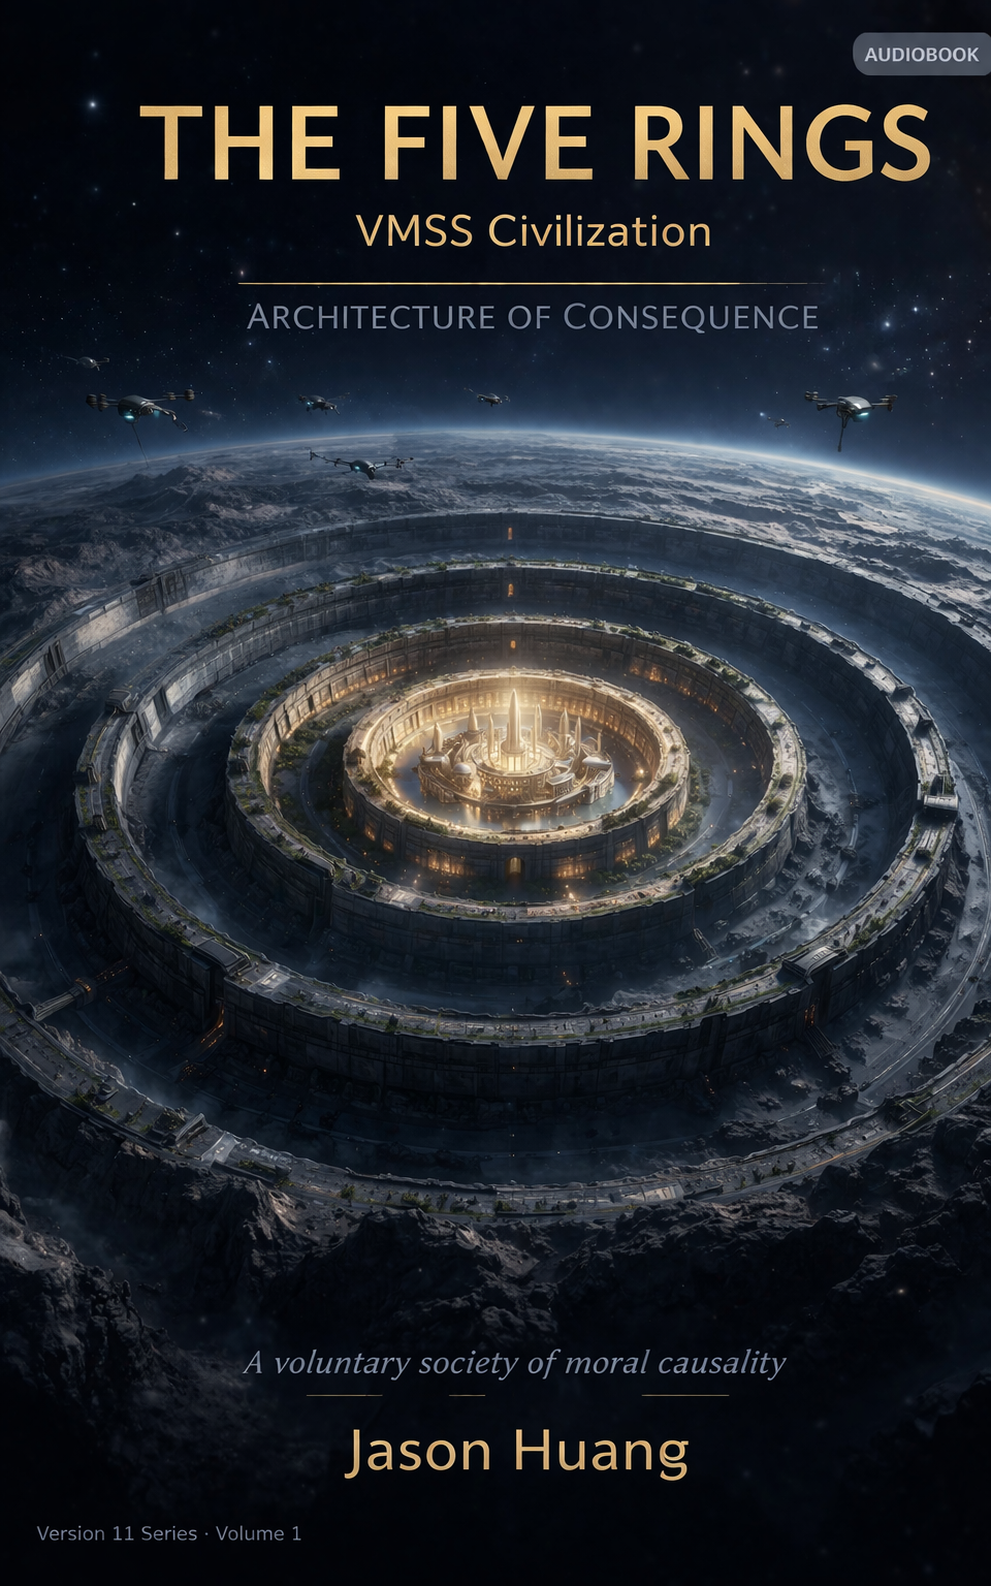
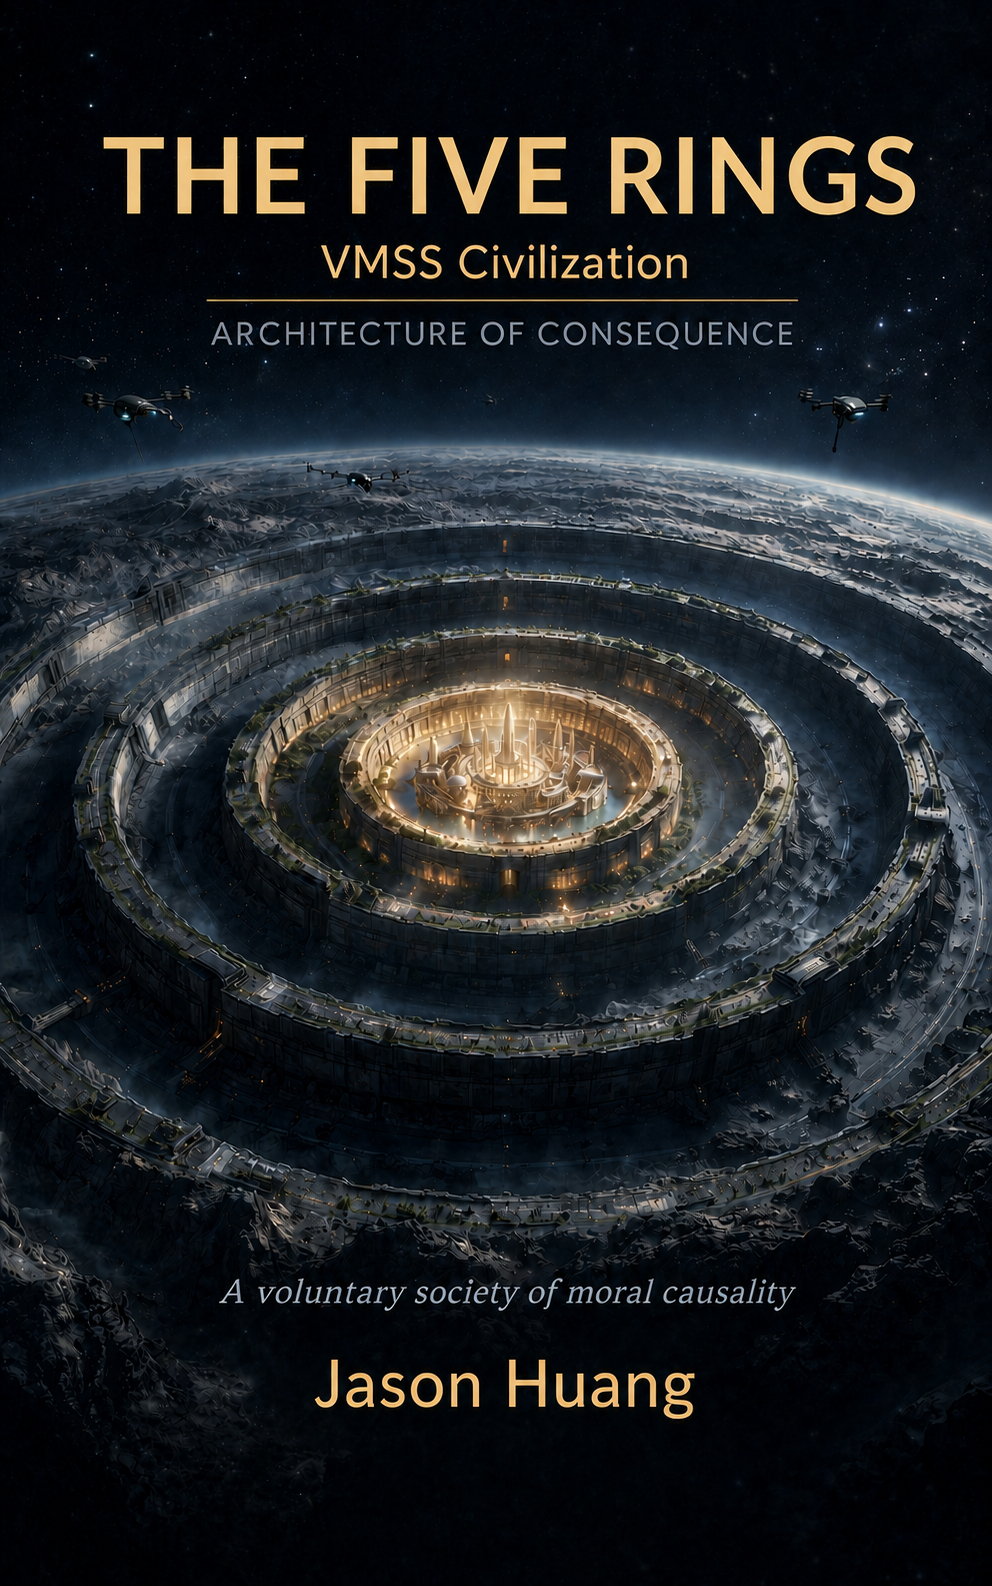
v20.0 Lite — sync from main: audiobook completion, mega-wall dimensions, version bump
- Audiobook page synced to main's completed state:
  - Volumes 2-5 wired with covers and ElevenReader links (was: placeholders with href="#")
  - Removed Trilogy Bundle card (no ElevenReader bundle mechanism)
  - Removed redundant bottom Listen Free CTA
  - Removed stale "Director's cut of Volume 5" note on Fresh Eyes
  - Added explicit doctrinal version labels (free intro v8.5, trilogy + standalone v11)
  - Meta description rewritten to reflect all volumes live + free v8.5 intro
  - Architecture of Consequence cover updated to v20.0
  - Added 4 new audiobook covers (Embodiment, Fresh Eyes, Intake Files, Ledger)
- technologies.html: mega-wall dimensions updated — was "15km tall, 5km underground, 100m thick"; now "15km above ground, 5km below ground, 1km-wide base tapering to ~1m crest" (matches main's v19.9.15+ revision)
- README.md: simulations count refreshed (40 world + 42 resident + 33 academy + 33 academic resources)
- Version bumped 19.0 Lite → 20.0 Lite across footer, styles.css, and README

diff --git a/audiobook.html b/audiobook.html
@@ -4,7 +4,7 @@
   <meta charset="UTF-8" />
   <meta name="viewport" content="width=device-width, initial-scale=1.0" />
   <title>Audiobook • The Five Rings</title>
-  <meta name="description" content="Listen to The Five Rings audiobook series — five volumes covering VMSS civilization architecture, enforcement, simulations, an outsider's reckoning, and embodiment. Volume 1 is free." />
+  <meta name="description" content="Listen to The Five Rings audiobook series — five volumes at VMSS doctrine v11 covering civilization architecture, enforcement, simulations, an outsider's reckoning, and embodiment. Plus a free v8.5 introduction. All available on ElevenReader." />
   <link rel="stylesheet" href="styles.css" />
   <link rel="stylesheet" href="https://cdnjs.cloudflare.com/ajax/libs/font-awesome/6.4.0/css/all.min.css" />
   <script src="https://cdn.tailwindcss.com"></script>
@@ -38,7 +38,7 @@
           <div>
             <p class="text-sm uppercase tracking-[0.25em] text-[var(--accent)] font-medium mb-2">Free Introduction</p>
             <h2 class="text-3xl md:text-4xl font-bold text-[var(--text-primary)] mb-4">The Five Rings</h2>
-            <p class="text-lg text-[var(--text-secondary)] mb-6 leading-relaxed">A narrated introduction to the civilization — the core doctrine, the five rings, the foundational logic. An earlier version of the architecture, presented without flair. If you want to know what VMSS is before committing to the full series, start here.</p>
+            <p class="text-lg text-[var(--text-secondary)] mb-6 leading-relaxed">A narrated introduction to the civilization — the core doctrine, the five rings, the foundational logic. <strong>VMSS doctrine v8.5</strong> — an earlier snapshot of the architecture, presented without flair. If you want to know what VMSS is before committing to the full series, start here.</p>
             <div class="flex flex-wrap gap-4 items-center">
               <a href="https://elevenreader.io/audiobooks/the-five-rings-vmss-civilization/oOhN5swRQtTpBOH91fhk"
                  target="_blank" rel="noopener noreferrer"
@@ -54,16 +54,16 @@
       <!-- Trilogy Label -->
       <div class="text-center mb-10">
         <h2 class="text-3xl font-bold text-[var(--text-primary)] mb-2">The Trilogy</h2>
-        <p class="text-[var(--text-muted)]">Volumes 1–3 form the core doctrinal arc — from architecture to enforcement to simulation. The full doctrine, narrated with the current version's depth and flair.</p>
+        <p class="text-[var(--text-muted)]">Volumes 1–3 form the core doctrinal arc — from architecture to enforcement to simulation. <strong>VMSS doctrine v11</strong> — the full doctrine, narrated with current depth and flair.</p>
       </div>
 
       <!-- Volumes 1–3 -->
-      <div class="grid md:grid-cols-3 gap-8 mb-10">
+      <div class="grid md:grid-cols-3 gap-8 mb-20">
 
         <!-- Volume 1 -->
         <div class="bg-[var(--bg-secondary)] rounded-3xl border border-[var(--border)] p-8 hover:border-[var(--accent)] transition-all duration-300">
           <div class="w-full max-w-[180px] mx-auto mb-6">
-            <img src="images/Audiobook/Architecture of Consequence.png" alt="Volume 1 — Architecture of Consequence" class="w-full rounded-2xl border border-[var(--border)] shadow-lg" loading="lazy" />
+            <img src="images/Audiobook/Architecture of Consequence.png?v=20.0" alt="Volume 1 — Architecture of Consequence" class="w-full rounded-2xl border border-[var(--border)] shadow-lg" loading="lazy" />
           </div>
           <p class="text-sm uppercase tracking-[0.25em] text-[var(--accent)] font-medium mb-2">Volume 1</p>
           <h3 class="text-2xl font-bold text-[var(--text-primary)] mb-3">Architecture of Consequence</h3>
@@ -76,54 +76,34 @@
         <!-- Volume 2 -->
         <div class="bg-[var(--bg-secondary)] rounded-3xl border border-[var(--border)] p-8 hover:border-[var(--accent)] transition-all duration-300">
           <div class="w-full max-w-[180px] mx-auto mb-6">
-            <div class="aspect-[3/4] rounded-2xl bg-[var(--bg-tertiary)] border border-[var(--border)] flex items-center justify-center">
-              <div class="text-center px-4">
-                <i class="fas fa-headphones text-3xl text-[var(--accent)] mb-3"></i>
-                <p class="text-xs text-[var(--text-muted)]">Cover image<br>coming soon</p>
-              </div>
-            </div>
+            <img src="images/Audiobook/The Ledger.png" alt="Volume 2 — The Ledger" class="w-full rounded-2xl border border-[var(--border)] shadow-lg" loading="lazy" />
           </div>
           <p class="text-sm uppercase tracking-[0.25em] text-[var(--accent)] font-medium mb-2">Volume 2</p>
           <h3 class="text-2xl font-bold text-[var(--text-primary)] mb-3">The Ledger</h3>
           <p class="text-[var(--text-secondary)] mb-6 leading-relaxed">The implant. The Central Ledger. Behavioral recording at the neural level — what the system sees, what it ignores, and why the distinction matters. How moral accounting replaces incarceration.</p>
-          <a href="#" class="inline-flex items-center gap-2 bg-[var(--accent)] hover:bg-amber-700 text-black font-bold px-6 py-3 rounded-xl transition">
-            <i class="fas fa-cart-shopping"></i> Buy
+          <a href="https://elevenreader.io/audiobooks/vmss-volume-2-the-ledger-audiobook/ubxa1YlH2l2jRnTZFzDK" target="_blank" rel="noopener" class="inline-flex items-center gap-2 bg-[var(--accent)] hover:bg-amber-700 text-black font-bold px-6 py-3 rounded-xl transition">
+            <i class="fas fa-headphones"></i> Listen on ElevenReader
           </a>
         </div>
 
         <!-- Volume 3 -->
         <div class="bg-[var(--bg-secondary)] rounded-3xl border border-[var(--border)] p-8 hover:border-[var(--accent)] transition-all duration-300">
           <div class="w-full max-w-[180px] mx-auto mb-6">
-            <div class="aspect-[3/4] rounded-2xl bg-[var(--bg-tertiary)] border border-[var(--border)] flex items-center justify-center">
-              <div class="text-center px-4">
-                <i class="fas fa-headphones text-3xl text-[var(--accent)] mb-3"></i>
-                <p class="text-xs text-[var(--text-muted)]">Cover image<br>coming soon</p>
-              </div>
-            </div>
+            <img src="images/Audiobook/The Intake Files.png" alt="Volume 3 — The Intake Files" class="w-full rounded-2xl border border-[var(--border)] shadow-lg" loading="lazy" />
           </div>
           <p class="text-sm uppercase tracking-[0.25em] text-[var(--accent)] font-medium mb-2">Volume 3</p>
           <h3 class="text-2xl font-bold text-[var(--text-primary)] mb-3">The Intake Files</h3>
           <p class="text-[var(--text-secondary)] mb-6 leading-relaxed">The Social Trust Index in seven dimensions. Case-by-case simulations of how the system processes real behavioral profiles — civic compliance, contribution, relational integrity, and more.</p>
-          <a href="#" class="inline-flex items-center gap-2 bg-[var(--accent)] hover:bg-amber-700 text-black font-bold px-6 py-3 rounded-xl transition">
-            <i class="fas fa-cart-shopping"></i> Buy
+          <a href="https://elevenreader.io/audiobooks/vmss-volume-3-the-intake-files-audiobook/Cy0CARDaY4bPHUeyd3Cp" target="_blank" rel="noopener" class="inline-flex items-center gap-2 bg-[var(--accent)] hover:bg-amber-700 text-black font-bold px-6 py-3 rounded-xl transition">
+            <i class="fas fa-headphones"></i> Listen on ElevenReader
           </a>
         </div>
-      </div>
-
-      <!-- Trilogy Bundle -->
-      <div class="bg-[var(--bg-secondary)] rounded-3xl border border-[var(--border)] p-8 md:p-10 mb-20 text-center">
-        <p class="text-sm uppercase tracking-[0.25em] text-[var(--accent)] font-medium mb-3">Bundle</p>
-        <h3 class="text-2xl font-bold text-[var(--text-primary)] mb-3">The Complete Trilogy (Vols. 1–3)</h3>
-        <p class="text-[var(--text-muted)] mb-6 max-w-2xl mx-auto">Architecture of Consequence + The Ledger + The Intake Files. The full doctrinal arc from first principles to operational simulation.</p>
-        <a href="#" class="inline-flex items-center gap-2 bg-[var(--accent)] hover:bg-amber-700 text-black font-bold px-8 py-4 rounded-xl text-lg transition">
-          <i class="fas fa-cart-shopping"></i> Buy the Trilogy
-        </a>
       </div>
 
       <!-- Standalone Label -->
       <div class="text-center mb-10">
         <h2 class="text-3xl font-bold text-[var(--text-primary)] mb-2">Standalone Volumes</h2>
-        <p class="text-[var(--text-muted)]">Independent works. No prerequisite reading required — each stands on its own.</p>
+        <p class="text-[var(--text-muted)]">Independent works at <strong>VMSS doctrine v11</strong>. No prerequisite reading required — each stands on its own.</p>
       </div>
 
       <!-- Volumes 4–5 -->
@@ -132,49 +112,28 @@
         <!-- Volume 4 -->
         <div class="bg-[var(--bg-secondary)] rounded-3xl border border-[var(--border)] p-8 hover:border-[var(--accent)] transition-all duration-300">
           <div class="w-full max-w-[180px] mx-auto mb-6">
-            <div class="aspect-[3/4] rounded-2xl bg-[var(--bg-tertiary)] border border-[var(--border)] flex items-center justify-center">
-              <div class="text-center px-4">
-                <i class="fas fa-headphones text-3xl text-[var(--accent)] mb-3"></i>
-                <p class="text-xs text-[var(--text-muted)]">Cover image<br>coming soon</p>
-              </div>
-            </div>
+            <img src="images/Audiobook/Fresh Eyes.png" alt="Volume 4 — Fresh Eyes" class="w-full rounded-2xl border border-[var(--border)] shadow-lg" loading="lazy" />
           </div>
           <p class="text-sm uppercase tracking-[0.25em] text-[var(--accent)] font-medium mb-2">Volume 4 — Standalone</p>
           <h3 class="text-2xl font-bold text-[var(--text-primary)] mb-3">Fresh Eyes</h3>
-          <p class="text-[var(--text-secondary)] mb-2 leading-relaxed">A stranger encounters the doctrine expecting a thought experiment. What they find instead is something far stranger — a civilization framework that resists dismissal. An outsider's reckoning with a system that answers every objection before it's raised.</p>
-          <p class="text-sm text-[var(--text-muted)] italic mb-6">Director's cut of Volume 5.</p>
-          <a href="#" class="inline-flex items-center gap-2 bg-[var(--accent)] hover:bg-amber-700 text-black font-bold px-6 py-3 rounded-xl transition">
-            <i class="fas fa-cart-shopping"></i> Buy Volume 4
+          <p class="text-[var(--text-secondary)] mb-6 leading-relaxed">A stranger encounters the doctrine expecting a thought experiment. What they find instead is something far stranger — a civilization framework that resists dismissal. An outsider's reckoning with a system that answers every objection before it's raised.</p>
+          <a href="https://elevenreader.io/audiobooks/vmss-volume-4-fresh-eyes-audiobook/pj_cnP2EmMwoqaVbxyfBumA" target="_blank" rel="noopener" class="inline-flex items-center gap-2 bg-[var(--accent)] hover:bg-amber-700 text-black font-bold px-6 py-3 rounded-xl transition">
+            <i class="fas fa-headphones"></i> Listen on ElevenReader
           </a>
         </div>
 
         <!-- Volume 5 -->
         <div class="bg-[var(--bg-secondary)] rounded-3xl border border-[var(--border)] p-8 hover:border-[var(--accent)] transition-all duration-300">
           <div class="w-full max-w-[180px] mx-auto mb-6">
-            <div class="aspect-[3/4] rounded-2xl bg-[var(--bg-tertiary)] border border-[var(--border)] flex items-center justify-center">
-              <div class="text-center px-4">
-                <i class="fas fa-headphones text-3xl text-[var(--accent)] mb-3"></i>
-                <p class="text-xs text-[var(--text-muted)]">Cover image<br>coming soon</p>
-              </div>
-            </div>
+            <img src="images/Audiobook/Embodiment.png" alt="Volume 5 — Embodiment" class="w-full rounded-2xl border border-[var(--border)] shadow-lg" loading="lazy" />
           </div>
           <p class="text-sm uppercase tracking-[0.25em] text-[var(--accent)] font-medium mb-2">Volume 5 — Standalone</p>
           <h3 class="text-2xl font-bold text-[var(--text-primary)] mb-3">Embodiment</h3>
           <p class="text-[var(--text-secondary)] mb-6 leading-relaxed">The body is no longer fixed. Beauty, biological augmentation, and physical identity in a civilization where cosmetic transformation is available to everyone, aging is optional, and the definition of human appearance has permanently expanded. What happens to beauty standards when the constraints that created them disappear?</p>
-          <a href="#" class="inline-flex items-center gap-2 bg-[var(--accent)] hover:bg-amber-700 text-black font-bold px-6 py-3 rounded-xl transition">
-            <i class="fas fa-cart-shopping"></i> Buy Volume 5
+          <a href="https://elevenreader.io/audiobooks/vmss-volume-5-embodiment-audiobook/pj_cFM95MTT9ZT8p3xep2z2" target="_blank" rel="noopener" class="inline-flex items-center gap-2 bg-[var(--accent)] hover:bg-amber-700 text-black font-bold px-6 py-3 rounded-xl transition">
+            <i class="fas fa-headphones"></i> Listen on ElevenReader
           </a>
         </div>
-      </div>
-
-      <!-- Bottom CTA -->
-      <div class="text-center mt-8">
-        <p class="text-[var(--text-muted)] text-lg mb-6">Start with the free introduction. The doctrine speaks for itself.</p>
-        <a href="https://elevenreader.io/audiobooks/the-five-rings-vmss-civilization/oOhN5swRQtTpBOH91fhk"
-           target="_blank" rel="noopener noreferrer"
-           class="inline-flex items-center gap-2 bg-[var(--accent)] hover:bg-amber-700 text-black font-bold px-10 py-5 rounded-2xl text-xl transition">
-          <i class="fas fa-headphones"></i> Listen Free
-        </a>
       </div>
 
     </div>

diff --git a/technologies.html b/technologies.html
@@ -94,7 +94,7 @@
 
         <div class="bg-[var(--bg-secondary)] rounded-3xl border border-[var(--border)] p-8">
           <h2 class="text-2xl font-bold text-[var(--accent)] mb-4">Mega-Walls & Boundary Infrastructure</h2>
-          <p class="text-[var(--text-secondary)] leading-relaxed mb-4">Massive walls separating the five rings — 15km tall, 5km underground, 100m thick. Higher than commercial aircraft fly. Too deep to tunnel under. Packed with sensors, drones, and automated defenses.</p>
+          <p class="text-[var(--text-secondary)] leading-relaxed mb-4">Massive walls separating the five rings — 15km above ground, 5km below ground, with a 1km-wide base tapering to a ~1m crest. Higher than commercial aircraft fly. Too deep to tunnel under. The kilometer-wide base makes them effectively immune to conventional breach. Packed with sensors, drones, and automated defenses.</p>
           <p class="text-[var(--text-secondary)] leading-relaxed">Energy forcefields will be added on top of the physical walls in the 28th century. By 2850, the boundary is impenetrable by any known means.</p>
         </div>
 

diff --git a/footer.html b/footer.html
@@ -23,7 +23,7 @@
           <a href="audiobook.html" class="hover:text-[var(--accent)] transition">Audiobook</a>
           <a href="join.html" class="hover:text-[var(--accent)] transition">Join</a>
         </div>
-        <div class="text-xs uppercase tracking-[0.22em] text-[var(--text-muted)]">Version 19.0 Lite</div>
+        <div class="text-xs uppercase tracking-[0.22em] text-[var(--text-muted)]">Version 20.0 Lite</div>
         <div class="text-xs text-[var(--text-muted)]">© 2026 Jason Huang · Built with curiosity and consequence in mind</div>
       </div>
     </div>

diff --git a/styles.css b/styles.css
@@ -1,4 +1,4 @@
-/* VMSS Global Styles — Version 11.0 Lite
+/* VMSS Global Styles — Version 20.0 Lite
    ===================================
    Table of Contents:
    1. FONT IMPORT & HEADING FONT

diff --git a/README.md b/README.md
@@ -2,7 +2,7 @@
 
 A voluntary civilization framework built on moral causality, layered governance, continuity, and consequence.
 
-**Version:** 19.0 Lite
+**Version:** 20.0 Lite
 **Live site:** https://jasonhuang24.github.io/VMSSLite/
 **Full site:** https://jasonhuang24.github.io/VMSS/
 
@@ -27,7 +27,7 @@ The Five Rings is a proposed civilization model organized around five concentric
 | Whitepaper | ✗ (full site only) | 34-section paginated with TOC + glossary |
 | World page | ✗ (full site only) | International relations, military, culture |
 | Roadmap | ✗ (full site only) | 7-phase development roadmap |
-| Simulations | 6 archetypal profiles | 81 scenarios + 32 academy questions + 29 resources (4 dossiers) |
+| Simulations | 6 archetypal profiles | 40 world scenarios + 42 resident stories + 33 academy questions + 33 academic resources (4 dossiers) |
 | FAQ | Core + governance | Extended with edge cases |
 | Charter | All 28 articles, condensed | Full constitutional form with rationale links |
 
